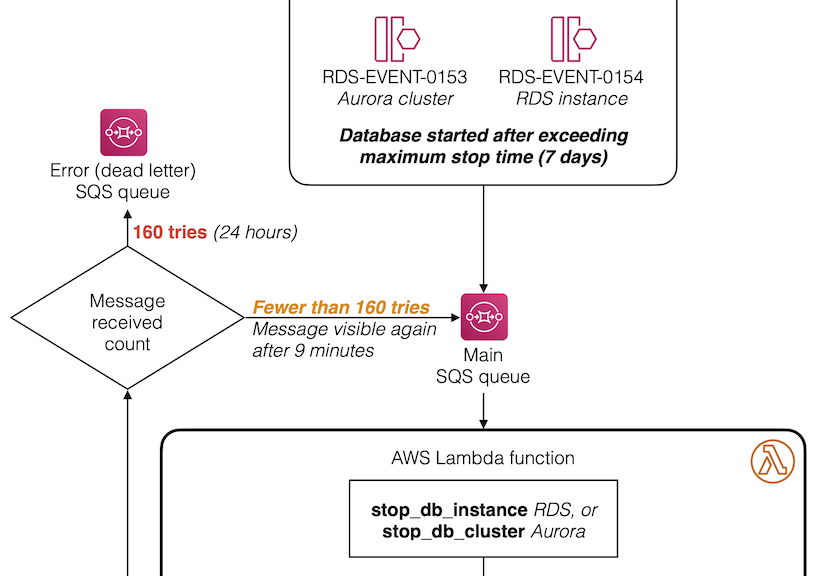
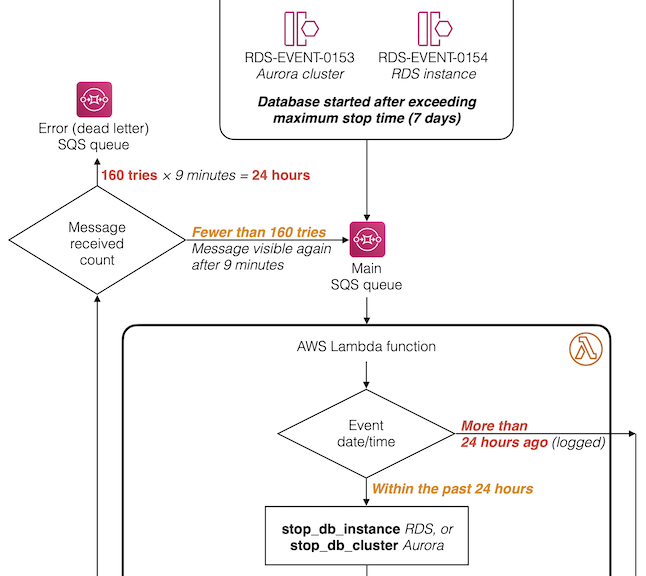
Don't process events after 24 hours; log available status as INFO, not ERROR

diff --git a/stay_stopped_aws_rds_aurora.py b/stay_stopped_aws_rds_aurora.py
@@ -4,19 +4,23 @@
 github.com/sqlxpert/stay-stopped-aws-rds-aurora  GPLv3  Copyright Paul Marcelin
 """
 
-from logging import getLogger, INFO, WARNING, ERROR
+from logging import getLogger as logging_getLogger, INFO, WARNING, ERROR
 from os import environ as os_environ
 from json import dumps as json_dumps, loads as json_loads
+from datetime import datetime, timedelta, UTC
 from re import match as re_match
 from botocore.exceptions import ClientError as botocore_ClientError
 from botocore.config import Config as botocore_Config
 from boto3 import client as boto3_client
 
-logger = getLogger()
+logger = logging_getLogger()
 # Skip "credentials in environment" INFO message, unavoidable in AWS Lambda:
-getLogger("botocore").setLevel(WARNING)
+logging_getLogger("botocore").setLevel(WARNING)
 
 FOLLOW_UNTIL_STOPPED = ("FOLLOW_UNTIL_STOPPED" in os_environ)  # pylint: disable=superfluous-parens
+EXPIRES_TIMEDELTA = timedelta(
+  seconds=int(os_environ["EXPIRES_AFTER_SECONDS"])
+)
 
 
 def log(entry_type, entry_value, log_level):
@@ -125,6 +129,7 @@ def assess_db_status(db_status):
 
       case (
           "starting"  # Stop not yet successfully requested
+        | "available"  # Not expected after stop_db_instance/stop_db_cluster
         | "backing-up"
         | "maintenance"
         | "modifying"
@@ -154,8 +159,7 @@ def assess_db_status(db_status):
         # Status will probably change
 
       case (
-          "available"  # Not expected after stop_db_instance/stop_db_cluster
-        | "inaccessible-encryption-credentials-recoverable"
+          "inaccessible-encryption-credentials-recoverable"
         # RDS database instance only:
         | "incompatible-network"
         | "incompatible-option-group"
@@ -314,6 +318,20 @@ def op_log(  # pylint: disable=too-many-arguments,too-many-positional-arguments
   )
 
 
+def expired(event_datetime_str):
+  """Take an ISO 8601 string, return True if older than EXPIRES_TIMEDELTA
+
+  A safeguard in case messages accumulate while Lambda concurrency is at the
+  limit. Cannot be achieved by reducing MessageRetentionPeriod in
+  CloudFormation to EXPIRES_AFTER_SECONDS, because no record would be kept.
+  (After the retention period, SQS deletes messages instead of moving them to
+  the dead letter queue.)
+  """
+  event_datetime_oldest = datetime.now(UTC) - EXPIRES_TIMEDELTA
+  event_datetime = datetime.fromisoformat(event_datetime_str)
+  return (event_datetime < event_datetime_oldest)  # pylint: disable=superfluous-parens
+
+
 def lambda_handler(lambda_event, context):  # pylint: disable=unused-argument
   """Try to request stopping Aurora database clusters, RDS database instances
 
@@ -350,6 +368,10 @@ def lambda_handler(lambda_event, context):  # pylint: disable=unused-argument
       sqs_message_id = sqs_message["messageId"]
       db_event = json_loads(sqs_message["body"])
       db_event_detail = db_event["detail"]
+
+      if expired(db_event_detail["Date"]):
+        raise RuntimeError("Event expired")
+
       # Events have "CLUSTER" (Aurora) or "DB_INSTANCE" (RDS); take last word:
       source_type_word = db_event_detail["SourceType"].split("_")[-1]
       source_identifier = db_event_detail["SourceIdentifier"]

diff --git a/README.md b/README.md
@@ -184,6 +184,9 @@ entirely at your own risk. You are encouraged to review the source code.
 
 - A concurrency limit, to prevent exhaustion of available Lambda resources.
 
+- A 24-hour event date/time expiry check, to prevent processing of accumulated
+  stale events, if any.
+
 - Readable Identity and Access Management policies, formatted as
   CloudFormation YAML rather than JSON, and broken down into discrete
   statements by service, resource or principal.
@@ -318,12 +321,16 @@ messages" button above the list. You can:
 - "Poll for messages", select a message, read it and delete it, or
 - "Purge" all messages.
 
-Edit the database names in these test messages:
+Edit the date/time strings (ending in `Z` for
+[UTC](https://www.timeanddate.com/worldclock/timezone/utc),
+and must be within the past 24 hours) and database names in these test
+messages:
 
 ```json
 {
   "detail": {
     "SourceIdentifier": "Name-Of-Your-RDS-Database-Instance",
+    "Date": "2025-06-06T04:30Z",
     "SourceType": "DB_INSTANCE",
     "EventID": "RDS-EVENT-0154"
   },
@@ -337,6 +344,7 @@ Edit the database names in these test messages:
 {
   "detail": {
     "SourceIdentifier": "Name-Of-Your-Aurora-Database-Cluster",
+    "Date": "2025-06-06T04:30Z",
     "SourceType": "CLUSTER",
     "EventID": "RDS-EVENT-0153"
   },
@@ -351,17 +359,20 @@ Edit the database names in these test messages:
 Depending on locally-determined permissions, you may also be able to invoke
 the
 [StayStopped Lambda function](https://console.aws.amazon.com/lambda/home#/functions?fo=and&o0=%3A&v0=StayStoppedRdsAurora-LambdaFn-)
-manually. Edit the database names in this Lambda test event:
+manually. Edit the date/time strings (ending in `Z` for
+[UTC](https://www.timeanddate.com/worldclock/timezone/utc),
+and must be within the past 24 hours) and database names in this Lambda test
+event:
 
 ```json
 {
   "Records": [
     {
-      "body": "{ \"detail\": { \"SourceIdentifier\": \"Name-Of-Your-RDS-Database-Instance\", \"SourceType\": \"DB_INSTANCE\", \"EventID\": \"RDS-EVENT-0154\" }, \"detail-type\": \"RDS DB Instance Event\", \"source\": \"aws.rds\", \"version\": \"0\"}",
+      "body": "{ \"detail\": { \"SourceIdentifier\": \"Name-Of-Your-RDS-Database-Instance\", \"Date\": \"2025-06-06T04:30Z\", \"SourceType\": \"DB_INSTANCE\", \"EventID\": \"RDS-EVENT-0154\" }, \"detail-type\": \"RDS DB Instance Event\", \"source\": \"aws.rds\", \"version\": \"0\"}",
       "messageId": "test-message-1-rds"
     },
     {
-      "body": "{ \"detail\": { \"SourceIdentifier\": \"Name-Of-Your-Aurora-Database-Cluster\", \"SourceType\": \"CLUSTER\", \"EventID\": \"RDS-EVENT-0153\" }, \"detail-type\": \"RDS DB Cluster Event\", \"source\": \"aws.rds\", \"version\": \"0\"}",
+      "body": "{ \"detail\": { \"SourceIdentifier\": \"Name-Of-Your-Aurora-Database-Cluster\", \"Date\": \"2025-06-06T04:30Z\", \"SourceType\": \"CLUSTER\", \"EventID\": \"RDS-EVENT-0153\" }, \"detail-type\": \"RDS DB Cluster Event\", \"source\": \"aws.rds\", \"version\": \"0\"}",
       "messageId": "test-message-2-aurora"
     }
   ]
